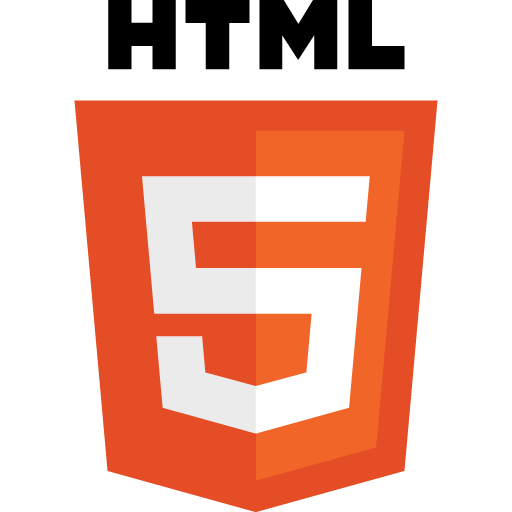
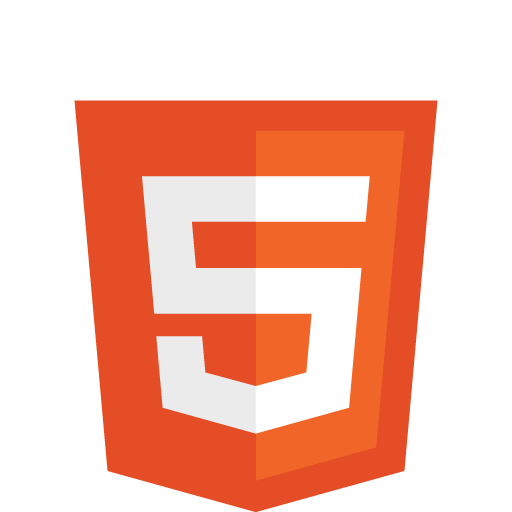
workwork description

Changed region(s): [[0.1875, 0.0, 0.8125, 0.1562]]

diff --git a/client/src/components/SuperMario/index.js b/client/src/components/SuperMario/index.js
@@ -4,24 +4,24 @@ import { Button, Label, Grid } from 'semantic-ui-react';
 import './index.scss';
 
 export default class SuperMario extends Component {
-	render() {
-		return (
-			<Grid.Column className='grid-col' id='col-5'>
-				<div className='col-wrapper'>
-					<div className='work' id='super-mario'>
-					  <div className='work-wrapper'>
-					  	<Label floating color='red'>Technical</Label>
-					    <div className='info'>
-					      <h2>SUPER MARIO BROS. 3 REMAKE</h2>
-					      <p className="subtitle">EXPLORATION OF PHYSICS ENGINES & GAME DESIGN</p>
-					    </div>
-					    <div className='description'>
-				      	
-					    </div>
-					  </div>
-					</div>
-				</div>
-			</Grid.Column>
-		)
-	}
+  render() {
+    return (
+      <Grid.Column className='grid-col' id='col-5'>
+        <div className='col-wrapper'>
+          <div className='work' id='super-mario'>
+            <div className='work-wrapper'>
+              <Label floating color='red'>Technical</Label>
+              <div className='info'>
+                <h2>SUPER MARIO BROS. 3 REMAKE</h2>
+                <p className="subtitle">EXPLORATION OF PHYSICS ENGINES & GAME DESIGN</p>
+              </div>
+              <div className='description'>
+                <Button>More Info</Button>
+              </div>
+            </div>
+          </div>
+        </div>
+      </Grid.Column>
+    )
+  }
 }

diff --git a/client/src/components/DownTime/index.scss b/client/src/components/DownTime/index.scss
@@ -4,15 +4,14 @@
   background-size: cover;
 
   #downtime {
-    .description {
-      img {
-        width: 25%;
-        position: absolute;
-        bottom: 20px;
-        left: 21px;
-        max-width: 200px;
-        min-width: 100px;
-      }
+    img {
+      visibility: hidden;
+      width: 25%;
+      position: absolute;
+      bottom: 20px;
+      left: 21px;
+      max-width: 200px;
+      min-width: 100px;
     }
 
     .button {
@@ -23,4 +22,42 @@
       }
     }
   }
+
+  #downtime.clicked {
+    img {
+      visibility: visible;
+      animation: fadein 0.5s forwards ease-in-out;
+    }
+  }
+
+  #downtime.unclicked {
+    img {
+      animation: fadeout 0.5s forwards ease-in-out;
+    }
+  }
+}
+
+@mixin keyframes($animationName) {
+  @-webkit-keyframes #{$animationName} {
+    @content;
+  }
+  @-moz-keyframes #{$animationName} {
+    @content;
+  }
+  @-o-keyframes #{$animationName} {
+    @content;
+  }
+  @keyframes #{$animationName} {
+    @content;
+  }
+}
+
+@include keyframes(fadein) {
+  from { opacity: 0; }
+  to   { opacity: 1; }
+}
+
+@include keyframes(fadeout) {
+  from { opacity: 1; }
+  to   { opacity: 0; }
 }

diff --git a/client/src/components/WorkWork/index.scss b/client/src/components/WorkWork/index.scss
@@ -2,4 +2,62 @@
   background-image: url("../../lib/images/workwork.png");
   background-position: center;
   background-size: cover;
+
+  #workwork {
+    img {
+      visibility: hidden;
+      height: 12vw;
+      position: absolute;
+      bottom: 15px;
+      left: 7px;
+      max-height: 71px;
+      min-height: 50px;
+    }
+
+    .button {
+      background-color: #db2828 !important;
+      
+      &:hover {
+        background-color: #ad1f1f !important;
+      }
+    }
+  }
+
+  #workwork.clicked {
+    img {
+      visibility: visible;
+      animation: fadein 0.5s forwards ease-in-out;
+    }
+  }
+
+  #workwork.unclicked {
+    img {
+      animation: fadeout 0.5s forwards ease-in-out;
+    }
+  }
+}
+
+@mixin keyframes($animationName) {
+  @-webkit-keyframes #{$animationName} {
+    @content;
+  }
+  @-moz-keyframes #{$animationName} {
+    @content;
+  }
+  @-o-keyframes #{$animationName} {
+    @content;
+  }
+  @keyframes #{$animationName} {
+    @content;
+  }
+}
+
+@include keyframes(fadein) {
+  from { opacity: 0; }
+  to   { opacity: 1; }
+}
+
+@include keyframes(fadeout) {
+  from { opacity: 1; }
+  to   { opacity: 0; }
 }

diff --git a/client/src/components/DownTime/index.js b/client/src/components/DownTime/index.js
@@ -15,10 +15,10 @@ export default class DownTime extends Component {
                 <p className="subtitle">A REACT NATIVE MOBILE APP THAT TRACKS PRODUCTIVITY BY GEOLOCATION</p>
               </div>
               <div className='description'>
-                <img src={require('lib/images/reactnative.png')} />
                 <p>Mobile app that saves geolocations and time spent to track productivity and history</p>
                 <Button>More Info</Button>
               </div>
+              <img src={require('lib/images/reactnative.png')} />
             </div>
           </div>
         </div>

diff --git a/client/src/components/WorkWork/index.js b/client/src/components/WorkWork/index.js
@@ -17,8 +17,10 @@ export default class WorkWork extends Component {
                 <p className="subtitle">JAVASCRIPT LIBRARY THAT CAN RUN COMPUTATION-HEAVY TASKS CONCURRENTLY IN THE BROWSER</p>
               </div>
               <div className='description'>
+                <p>Assists the native Array.prototype methods by running tasks simultaneously using HTML5 Web Workers.</p>
                 <Button>More Info</Button>
               </div>
+              <img src={require('lib/images/html5.png')} />
             </div>
           </div>
         </div>

diff --git a/client/src/components/Landing/index.scss b/client/src/components/Landing/index.scss
@@ -98,6 +98,17 @@ body, .app, #landing {
       margin-left: 15%;
       visibility: hidden;
 
+      @media (max-width: 546px) {
+        top: -20px;
+        position: relative;
+      }
+
+      @media (max-width: 385px) {
+        top: -40px;
+        position: relative;
+        font-size: 12px;
+      }
+
       a {
         color: #24aaf0 !important;
         font-weight: 700;

diff --git a/client/src/components/SuperMario/index.scss b/client/src/components/SuperMario/index.scss
@@ -2,4 +2,14 @@
   background-image: url("../../lib/images/smb3.png");
   background-position: center;
   background-size: cover;
+
+  #super-mario {
+    .button {
+      background-color: #db2828 !important;
+      
+      &:hover {
+        background-color: #ad1f1f !important;
+      }
+    }
+  }
 }
